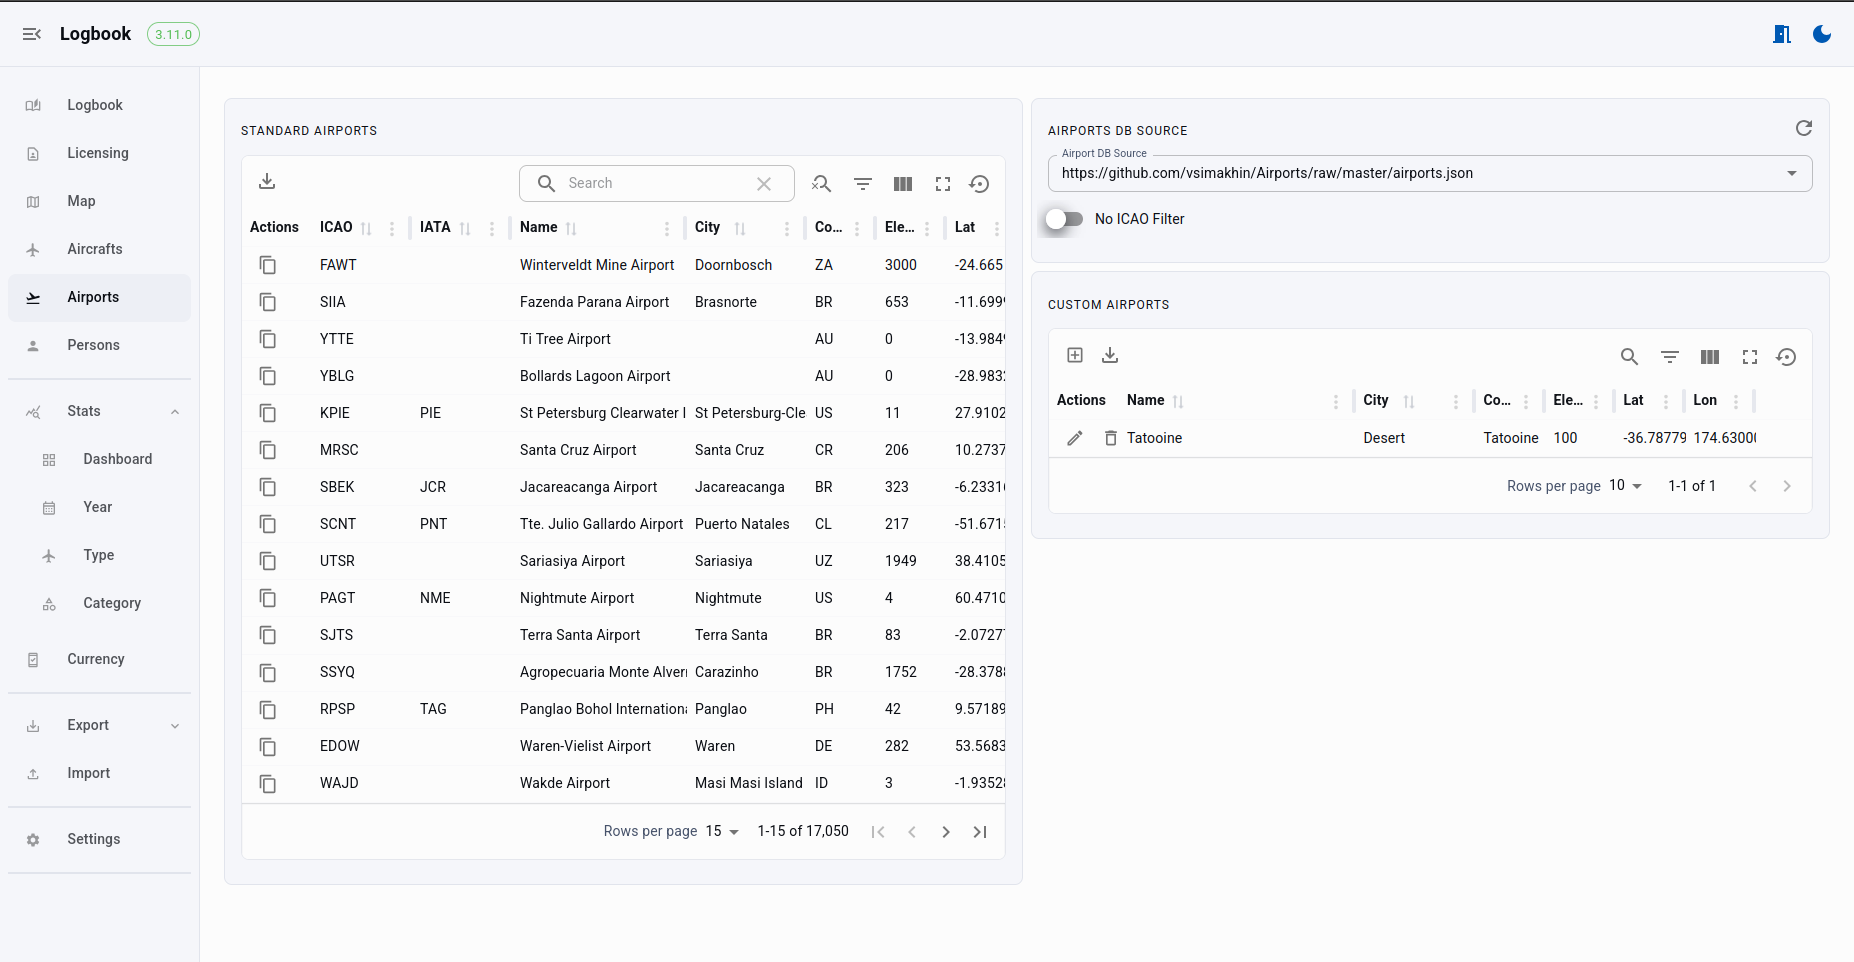
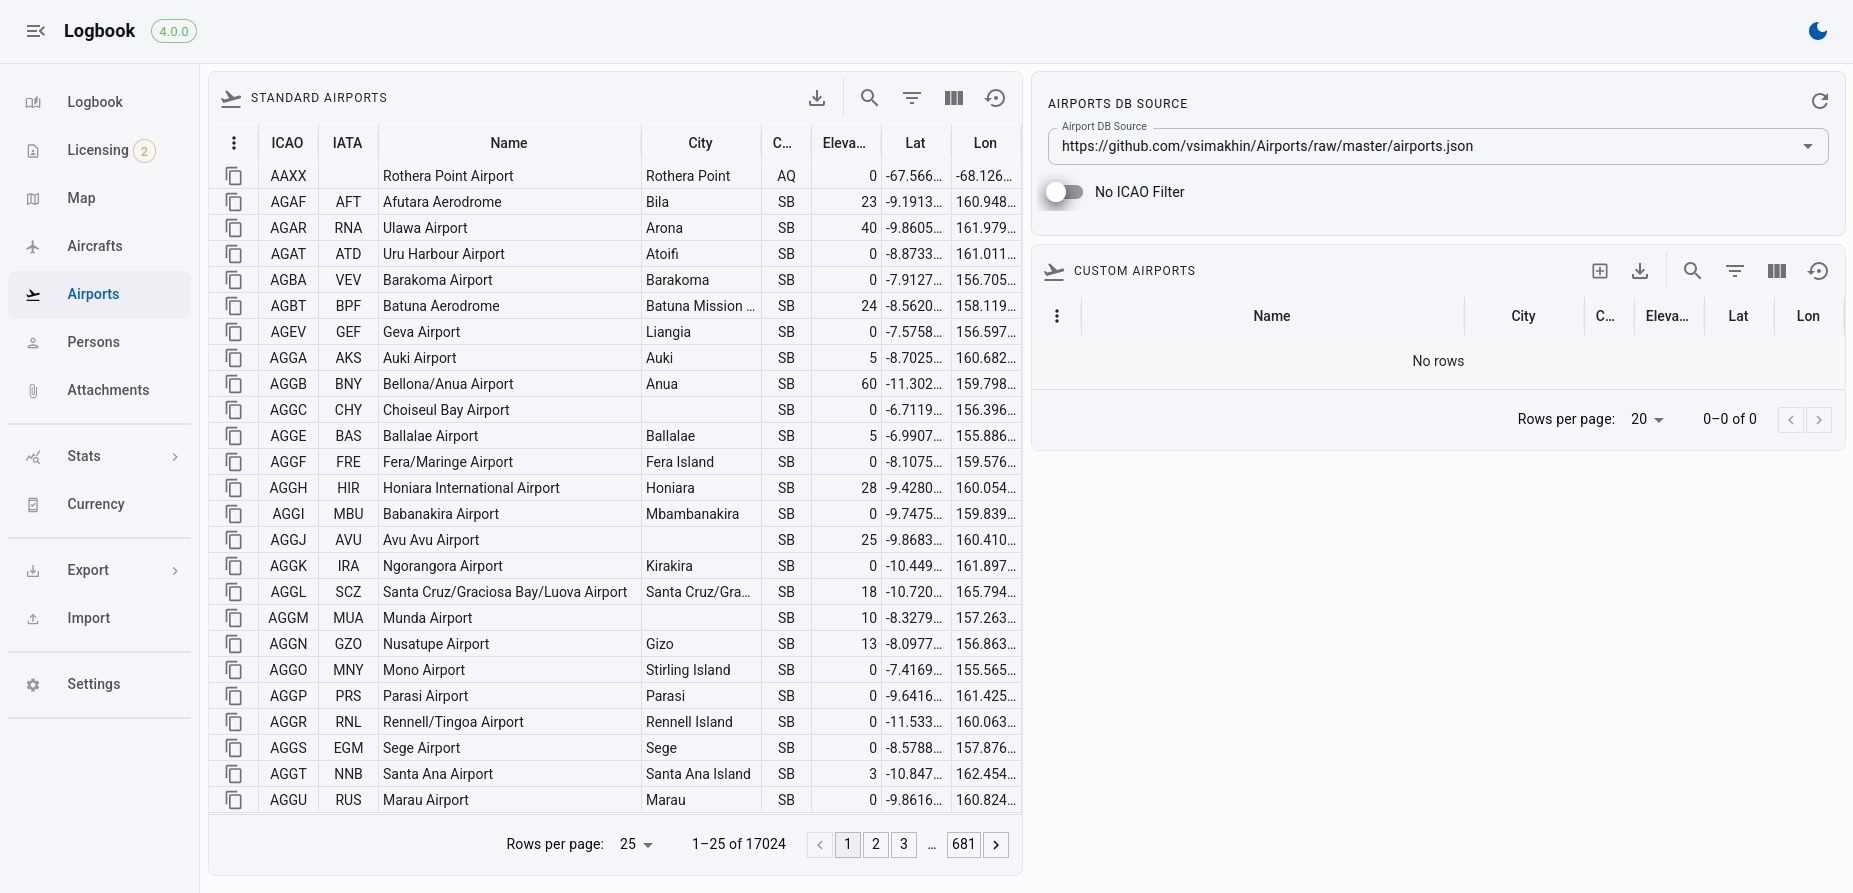
release v4

diff --git a/app/ui/src/pages/Root.jsx b/app/ui/src/pages/Root.jsx
@@ -48,7 +48,7 @@ const CustomAppTitle = () => {
     <Stack direction="row" alignItems="center" spacing={2}>
       <Typography variant="h6">Logbook</Typography>
       <Badge color="primary" badgeContent={"New"} invisible={!isNewReleaseAvailable}>
-        <Chip size="small" label={version} color="warning" variant="outlined"
+        <Chip size="small" label={version} color="success" variant="outlined"
           component="a" href="https://github.com/vsimakhin/web-logbook/releases"
           clickable target="_blank" rel="noopener noreferrer"
         />

diff --git a/internal/driver/db_structure.go b/internal/driver/db_structure.go
@@ -1,7 +1,7 @@
 package driver
 
 var (
-	schemaVersion = "38"
+	schemaVersion = "40"
 
 	UUID      = ColumnType{SQLite: "TEXT", MySQL: "VARCHAR(36)"}
 	DateTime  = ColumnType{SQLite: "TEXT", MySQL: "VARCHAR(32)"}
@@ -660,7 +660,7 @@ var attachmentsView = NewView("attachments_view",
 					a.document_name,
 					a.document,
 					ROUND(LENGTH(a.document)/1024, 0) AS document_size,
-					l.date AS flight_date,
+					IFNULL(l.date, '') AS flight_date,
 					CASE
 						WHEN l.departure_place IS NOT NULL AND l.departure_place <> ''
 						THEN CONCAT(
@@ -675,14 +675,14 @@ var attachmentsView = NewView("attachments_view",
 						ELSE ''
 					END AS flight_info
 				FROM attachments a
-				INNER JOIN logbook l ON l.uuid = a.record_id`,
+				LEFT JOIN logbook l ON l.uuid = a.record_id`,
 		MySQL: `SELECT 
 					a.uuid,
 					a.record_id,
 					a.document_name,
 					a.document,
 					ROUND(LENGTH(a.document)/1024, 0) AS document_size,
-					l.date AS flight_date,
+					IFNULL(l.date, '') AS flight_date,
 					CASE
 						WHEN l.departure_place IS NOT NULL AND l.departure_place <> ''
 						THEN CONCAT(
@@ -697,6 +697,6 @@ var attachmentsView = NewView("attachments_view",
 						ELSE ''
 					END AS flight_info
 				FROM attachments a
-				INNER JOIN logbook l ON l.uuid = a.record_id`,
+				LEFT JOIN logbook l ON l.uuid = a.record_id`,
 	},
 )

diff --git a/internal/models/attachments.go b/internal/models/attachments.go
@@ -40,6 +40,7 @@ func (m *DBModel) GetAttachments() (attachments []Attachment, err error) {
 				uuid, record_id, document_name, document_size,
 				flight_date, flight_info
 			FROM attachments_view
+			WHERE uuid <> 'custom_title_a4' AND uuid <> 'custom_title_a5'
 			ORDER by flight_date DESC`
 	rows, err := m.DB.QueryContext(ctx, query)
 	if err != nil {

diff --git a/app/main.go b/app/main.go
@@ -15,7 +15,7 @@ import (
 )
 
 const (
-	version = "4.0.0-beta1"
+	version = "4.0.0"
 
 	infoLogPrefix    = "INFO\t"
 	errorLogPrefix   = "ERROR\t"

diff --git a/README.md b/README.md
@@ -16,37 +16,25 @@ You also can easily export all flight records into EASA style pdf format, print 
 
 # Changelog
 
-## [Unreleased]
+## [4.0.0] - 04.03.2026
 
-- New: Added custom import profiles. User can save custom import profiles and load them later. The custom profile is stored in the browser's local storage and is not shared between different browsers or devices.
-- New: Attachments entity, allows to go through the list of all attachments, preview and download them (filtered or all) as a zip file.
+All changes for v4 release:
 
-## [4.0.0-beta1] - 25.02.2026
-
-- :warning: **Note**: This is a pre-release version. Make sure to backup your data before upgrading :warning:
-- New: Added record number column to the Logbook table (hidden by default). Can be used in the filter panel in case you need to calculate totals for specific range of the records.
-- New: Added night landings recalculation on import. If night time recalculated option is selected and it is more than 0 minutes, then night landings are set to the same value as day landings (if day landings > 0).
-- New: Added a new setting `Logbook totals view` to allow user to change the way totals are displayed in the Logbook table. There are 2 options. `Standard` will show you the current page totals and grand totals through the whole logbook. `Paper Logbook` will show you the totals for each page, previous page and the totals will be a summary of these 2 values.
-
-## [4.0.0-alpha2] - 10.02.2026
-
-- :warning: **Note**: This is a pre-release version. Make sure to backup your data before upgrading :warning:
-- Fix: Bug with custom pagination settings for Logbook table.
-- Fix: Fixed a bug triggered by clicking the Add Person button in Flight Records.
-- New: Added a new setting `Self PIC Label` to allow user to change the label used when PIC. By default it is `Self`, but can be changed to any other value (e.g. `SELF` according to [AMC1 FCL.050, section i, subsection 5](https://www.easa.europa.eu/en/document-library/easy-access-rules/online-publications/easy-access-rules-aircrew-regulation-eu-no?page=5#_Toc512863430)).
-- New: Added aircraft registration filter on the Flight Record page if the aircrat model/type is selected.
-
-## [4.0.0-alpha1] - 01.02.2026
-
-- :warning: **Note**: This is a pre-release version. Make sure to backup your data before upgrading :warning:
 - New: Custom DataGrid component based on standard MUI X DataGrid to replace unsupported Material React Table. This introduces new views for tables, filters, and column selection, which work faster and require less code and resources. The only disadvantage: it lacks row grouping, so the Stats by Year page had to be refactored with a new view.
 - Update: Latest versions of MUI libs and components.
 - Update: The previous two bullet points enabled slight style updates across the app; dark mode is updated and mobile view is now slightly more user-friendly.
 - New: Added phone, email, and remarks fields for Persons.
-- Update: Golang updated to 1.26.x.
+- Update: Golang updated to 1.25.x.
 - Update: Refactored Filter panel layout. Map Settings and Dashboard Settings are now separate components.
 - Update: Added option to hide airport codes on the map and added new pin icon.
 - New: For advanced users, added SQL view `logbook_stats_view` for flight statistics. Dates are converted to ISO format, departure/arrival times include dates, and time fields are cast to minutes. Also added API endpoint `/api/logbook/stats-data`.
+- New: Added a new setting `Self PIC Label` to allow user to change the label used when PIC. By default it is `Self`, but can be changed to any other value (e.g. `SELF` according to [AMC1 FCL.050, section i, subsection 5](https://www.easa.europa.eu/en/document-library/easy-access-rules/online-publications/easy-access-rules-aircrew-regulation-eu-no?page=5#_Toc512863430)).
+- New: Added aircraft registration filter on the Flight Record page if the aircrat model/type is selected.
+- New: Added record number column to the Logbook table (hidden by default). Can be used in the filter panel in case you need to calculate totals for specific range of the records.
+- New: Added night landings recalculation on import. If night time recalculated option is selected and it is more than 0 minutes, then night landings are set to the same value as day landings (if day landings > 0).
+- New: Added a new setting `Logbook totals view` to allow user to change the way totals are displayed in the Logbook table. There are 2 options. `Standard` will show you the current page totals and grand totals through the whole logbook. `Paper Logbook` will show you the totals for each page, previous page and the totals will be a summary of these 2 values.
+- New: Added custom import profiles. User can save custom import profiles and load them later. The custom profile is stored in the browser's local storage and is not shared between different browsers or devices.
+- New: Attachments entity, allows to go through the list of all attachments, preview and download them (filtered or all) as a zip file.
 
 ## [3.23.0] - 01.02.2026
 
@@ -55,10 +43,10 @@ You also can easily export all flight records into EASA style pdf format, print 
 
 The full changelog is [here](https://github.com/vsimakhin/web-logbook/blob/main/CHANGELOG.md)
 
-## Old v2.x version
-If you still would like to use v2.x version:
-* Latest v2 release https://github.com/vsimakhin/web-logbook/releases/tag/v2.45.0
-* Docker `docker pull vsimakhin/web-logbook:v2.45.0`
+## Old v3.x version
+If you still would like to use v3.x version:
+* Latest v3 release https://github.com/vsimakhin/web-logbook/releases/tag/v3.23.0
+* Docker `docker pull vsimakhin/web-logbook:v3.23.0`
 
 # Usage
 
@@ -205,6 +193,7 @@ So in real life the logbook could look like
 * Predefined formats
   * WebLogbook
   * Leon application (via export to CrewLounge link)
+* Custom formats
 
 ## Settings
 * Owner name, license and address, signature for the PDF exports

diff --git a/CHANGELOG.md b/CHANGELOG.md
@@ -1,6 +1,6 @@
 # Changelog
 
-## [Unreleased]
+## [4.0.0] - 04.03.2026
 
 - New: Added custom import profiles. User can save custom import profiles and load them later. The custom profile is stored in the browser's local storage and is not shared between different browsers or devices.
 - New: Attachments entity, allows to go through the list of all attachments, preview and download them (filtered or all) as a zip file.
